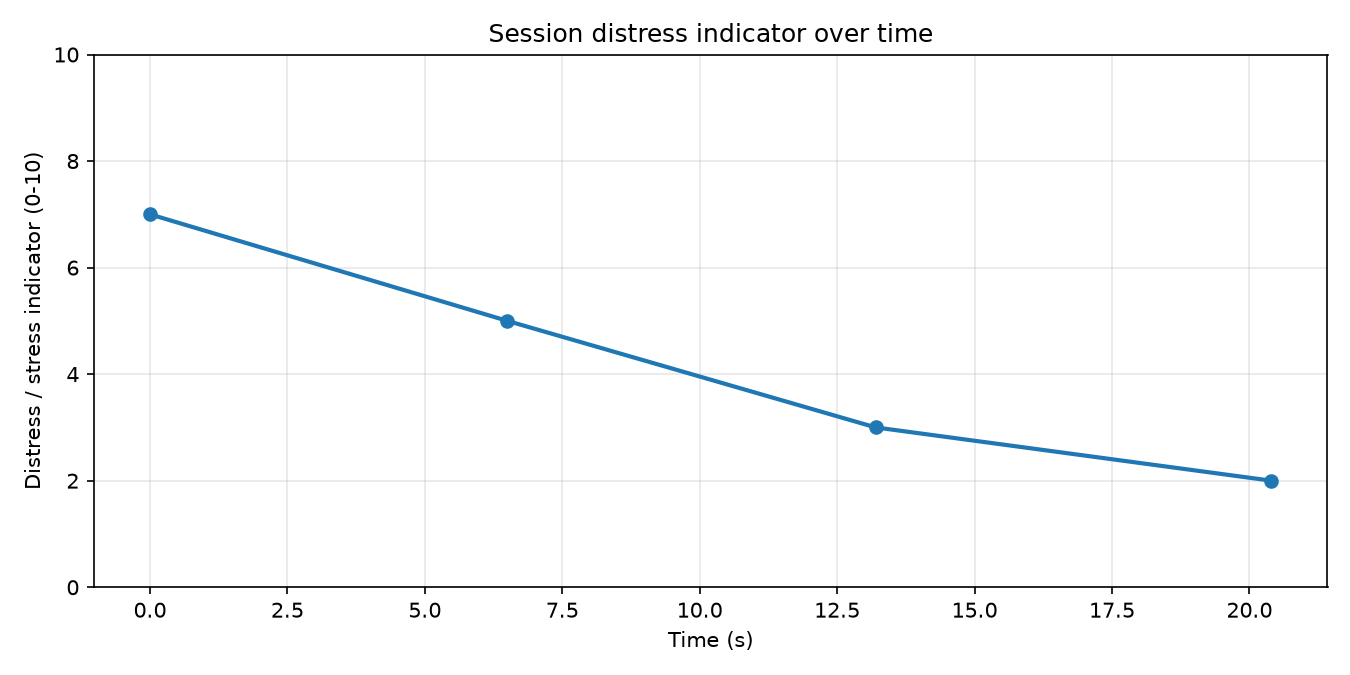
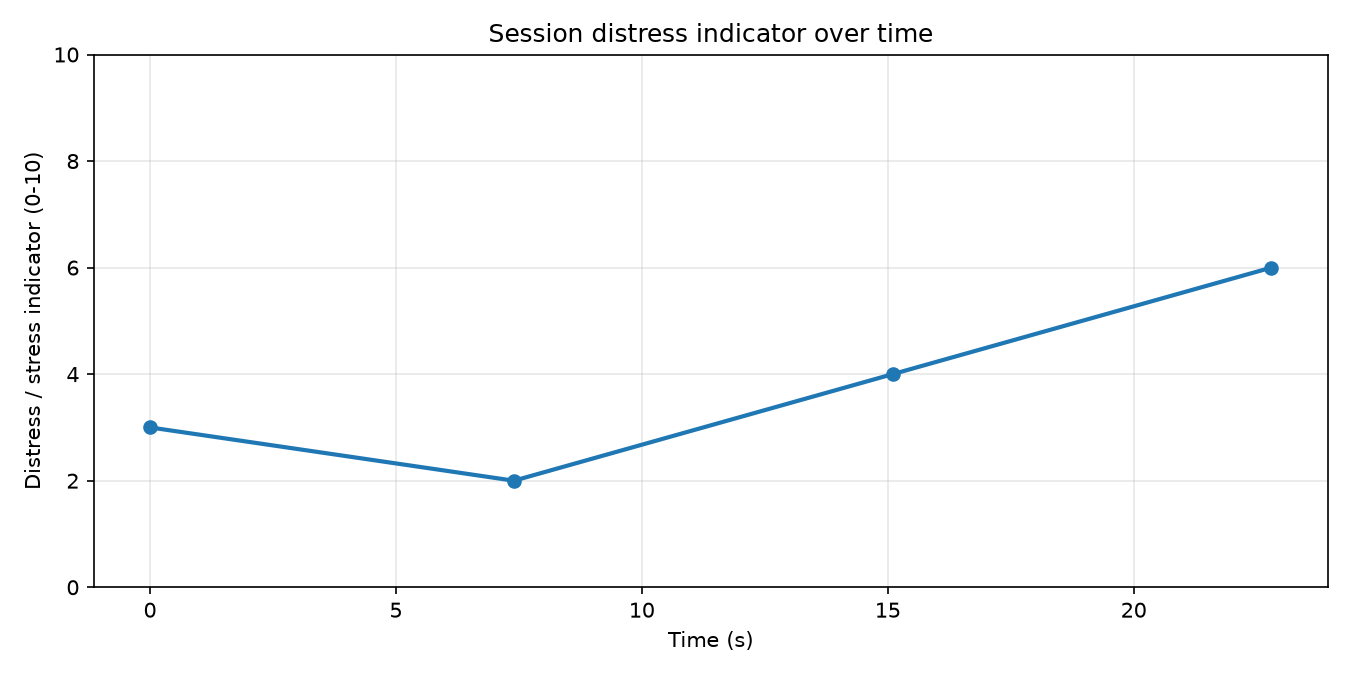
Model is completed
The model is still not having the perfect response but is now interactive

diff --git a/experiment/chat_llm/chat_llm.py b/experiment/chat_llm/chat_llm.py
@@ -51,14 +51,17 @@ Your job:
    - Do NOT just tell them what they want to hear. Do not give false reassurance ("everything is fine!")
      if the content suggests real distress.
    - Do NOT diagnose or use clinical labels.
-   - You CAN offer one small, casual, everyday suggestion if it fits naturally (e.g. "maybe step outside
-     for a few minutes", "might help to text a friend", "even a short walk can shift things a bit") —
-     said like a friend would, not like a treatment plan.
+   - You CAN offer one small, casual, everyday suggestion — but ONLY if it is clearly tailored to what
+     THIS person specifically described, not a generic default. Do not reach for "go for a walk" or
+     "talk to a friend" as a template regardless of content. Examples of matching content to suggestion:
+     if they mentioned trouble sleeping, a suggestion should relate to rest, not movement; if they
+     mentioned friend conflict or not wanting to involve people, do NOT suggest talking to a friend;
+     if nothing in what they said points to a natural, specific suggestion, SKIP the suggestion
+     entirely — silence is better than a generic one that doesn't fit their actual situation.
    - NEVER suggest medication, supplements, specific therapy techniques (e.g. CBT exercises), or anything
      that sounds like a treatment protocol. That is not your role.
-   - If you DO offer a suggestion (per the point above), casually close with a soft nudge like "worth
-     mentioning to your doctor too" or "your doctor might have more ideas here" — light, not clinical-sounding,
-     one short clause, not a formal referral. If you did NOT offer a suggestion, skip this entirely.
+   - Do NOT mention "doctor," "appointment," "clinician," or "review" in this message under any
+     circumstances — that decision is handled separately, outside of what you write.
    - Only if the content shows signs of real, significant distress (not everyday stress) should you gently
      suggest they lean on someone they trust or a support line — and even then, phrase it like a friend
      would, not like a referral. Otherwise skip that entirely and just respond to what they said.
@@ -199,6 +202,30 @@ def redistribute_trailing_emoji(text):
     return " ".join(rebuilt)
 
 
+def should_nudge_toward_doctor(segments):
+    """
+    Deterministic check based on the actual distress_score numbers, not the
+    model's judgment. Nudge toward the doctor only when the trend is
+    genuinely climbing (things are getting worse, not better) or the session
+    ends at a high level — i.e. exactly when a friendly message alone isn't
+    really enough.
+    """
+    scores = [s["distress_score"] for s in segments]
+    if len(scores) < 2:
+        return False
+
+    mid = len(scores) // 2
+    first_half = scores[:mid] or [scores[0]]
+    second_half = scores[mid:]
+    avg_first = sum(first_half) / len(first_half)
+    avg_second = sum(second_half) / len(second_half)
+
+    rising_trend = (avg_second - avg_first) >= 1.5
+    ends_high = scores[-1] >= 6
+
+    return rising_trend or ends_high
+
+
 def main(input_path, output_dir):
     os.makedirs(output_dir, exist_ok=True)
 
@@ -209,6 +236,11 @@ def main(input_path, output_dir):
 
     if "patient_message" in result:
         result["patient_message"] = redistribute_trailing_emoji(result["patient_message"])
+
+    if "segments" in result and should_nudge_toward_doctor(result["segments"]):
+        result["patient_message"] += (
+            " If this keeps building, it could help to flag it with your doctor too."
+        )
 
     report_path = os.path.join(output_dir, "report.json")
     with open(report_path, "w") as f:
